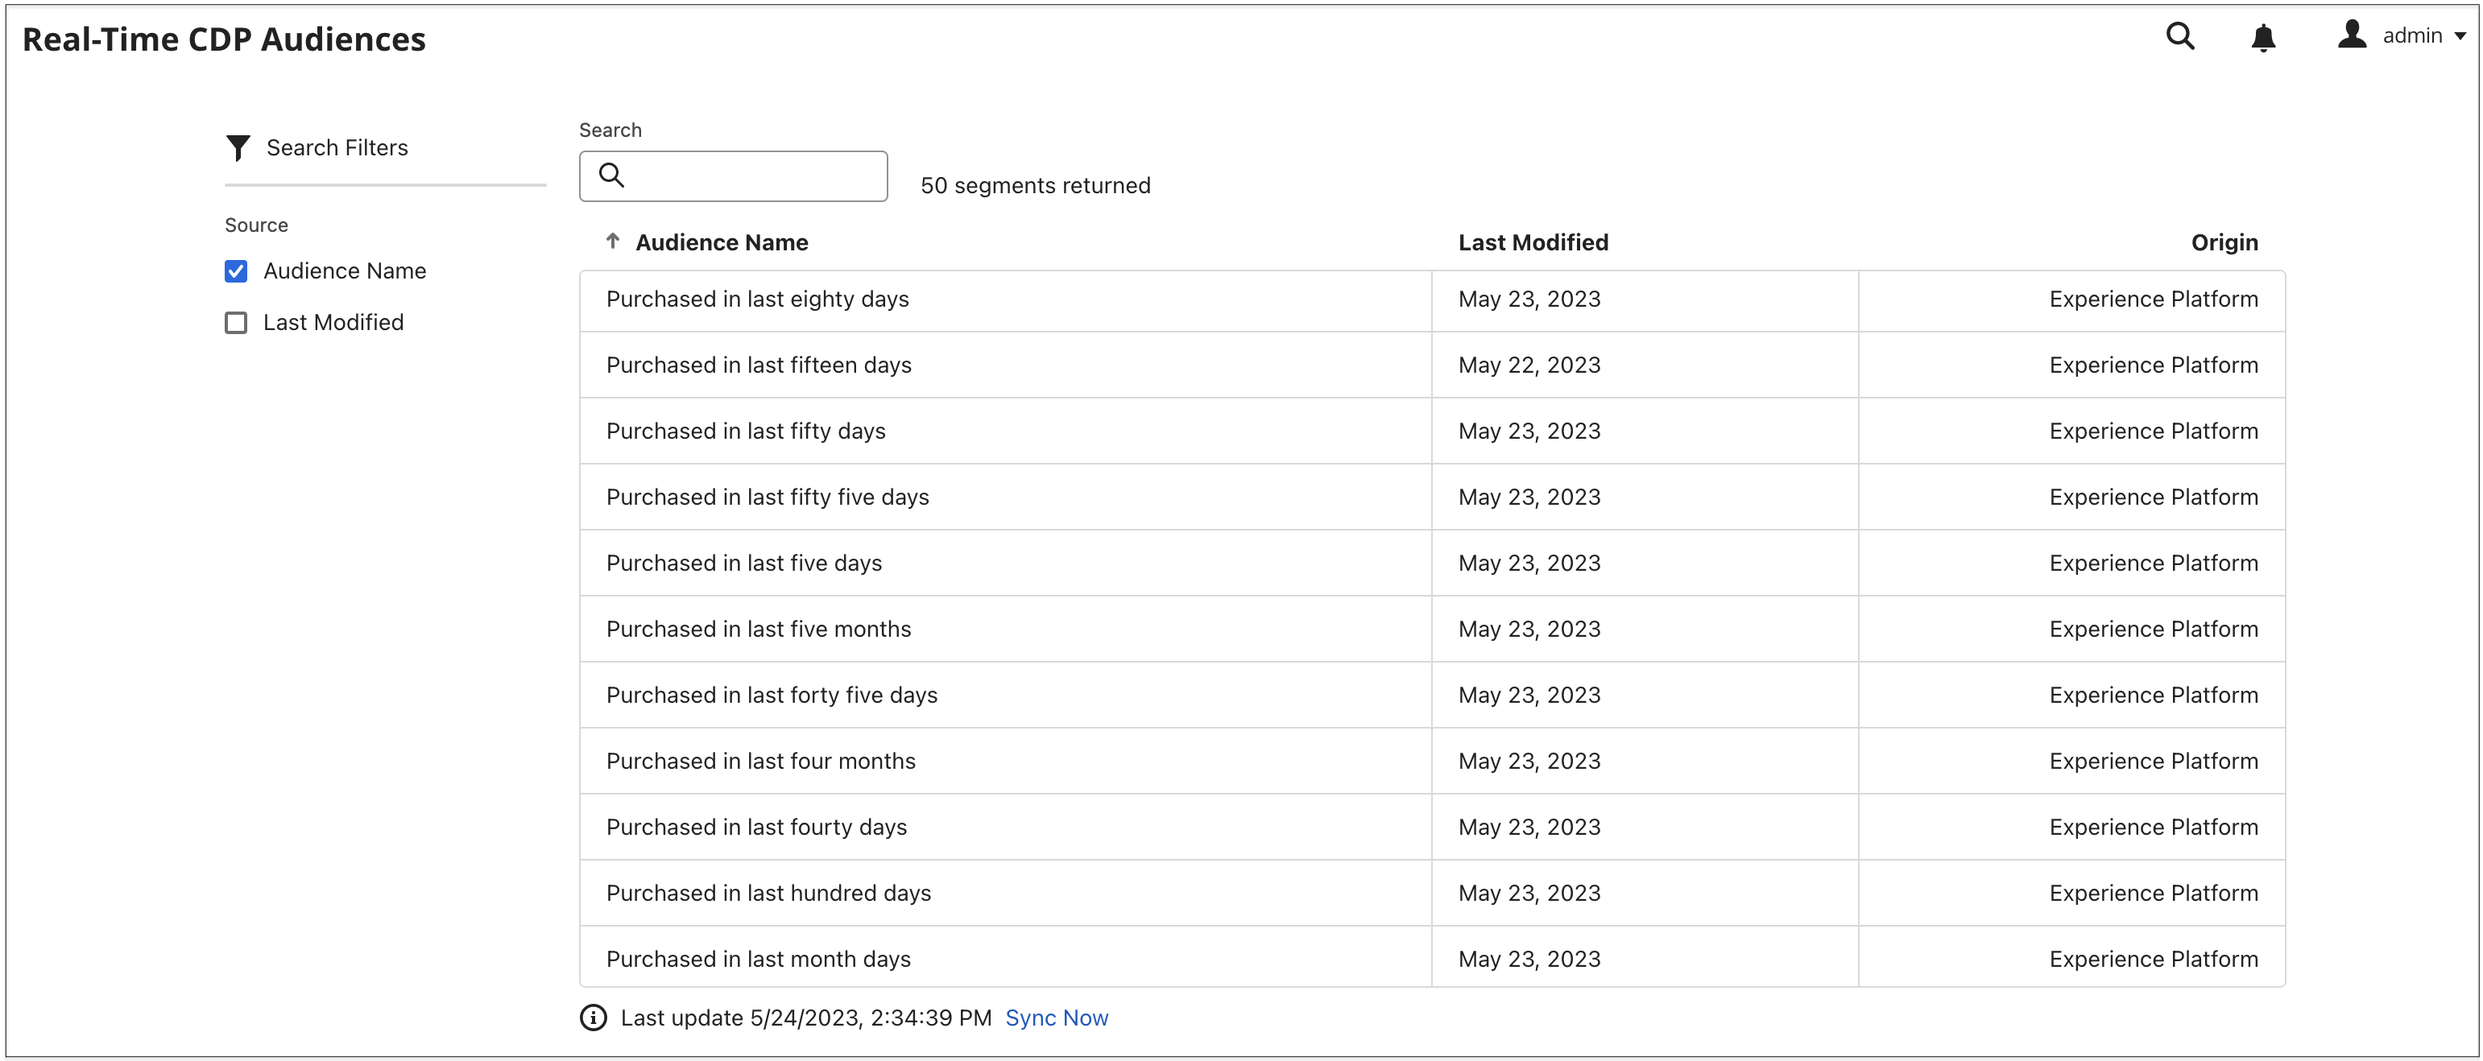
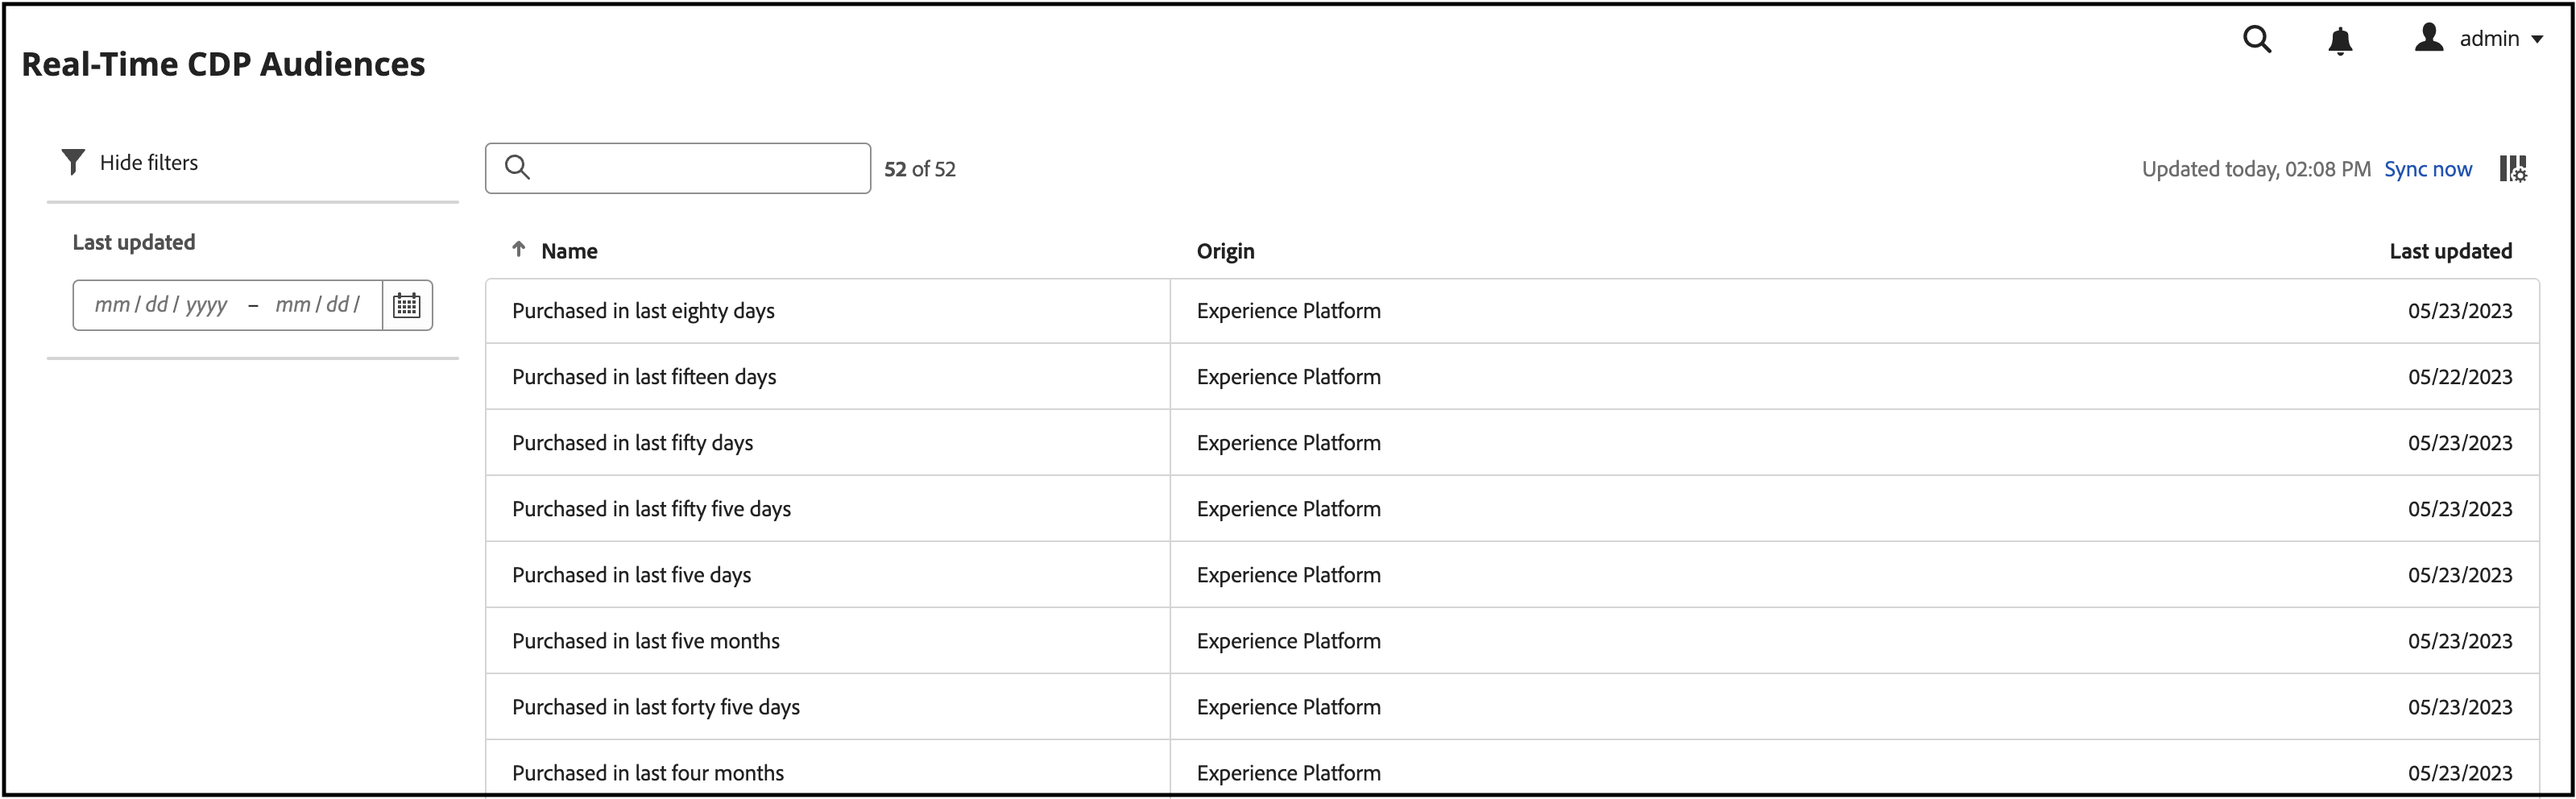
Updating dashboard

diff --git a/help/customers/audience-activation.md b/help/customers/audience-activation.md
@@ -125,12 +125,13 @@ To access the **Real-Time CDP Audiences** dashboard, go to the _Admin_ sidebar, 
 
 |Column|Description|
 |--- |--- |
-|`Search Filter`|Section that lets you specify the search criteria. You can search by `Audience` or `Last Modified`. If you do not select any criteria or you select all criteria, all audiences are searched.|
-|`Search`|Lets you search for active audiences in your Commerce instance. |
-|`Audience`|Name given to the audience in Real-Time CDP.|
-|`Last Modified`|Indicates when the audience was modified in Real-Time CDP.|
+|`Hide filters`|Lets you show or hide any filters that you can apply to the dashboard. Currently, the only filter you can apply is `Last updated`. This filter lets you select a date range for audiences based on when they were last updated.|
+|`Search`|Lets you search for active audiences in your Commerce instance.|
+|`Name`|Name given to the audience in Real-Time CDP.|
 |`Origin`|Indicates where the audience came from, such as `Experience Platform`.|
+|`Last updated`|Indicates when the audience was modified in Real-Time CDP.|
 |`Sync now`|Retrieves new or updated audiences from Real-Time CDP.|
+|`Customize table`| Lets you show or hide the `Origin` and `Last updated` columns.|
 
 {style="table-layout:auto"}
 
